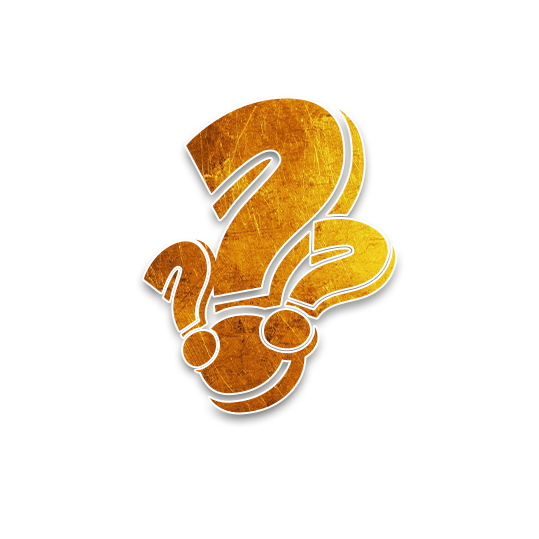
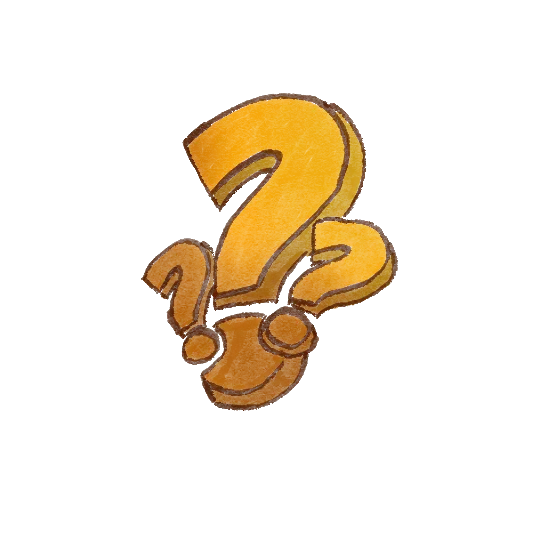
Add Tiny's Bootlegger and all the recolors of Custom

Changed region(s): [[0.2375, 0.1484, 0.7421, 0.8015]]

diff --git a/img-utils/convert-to-webm.py b/img-utils/convert-to-webm.py
@@ -4,7 +4,7 @@
 from PIL import Image
 from pathlib import Path
 
-paths = Path("../../townsquare/src/assets/").glob("*.png")
+paths = Path(".").glob("*.png")
 
 for path in paths:
     Image.open(path).save(path.stem + ".webp")
